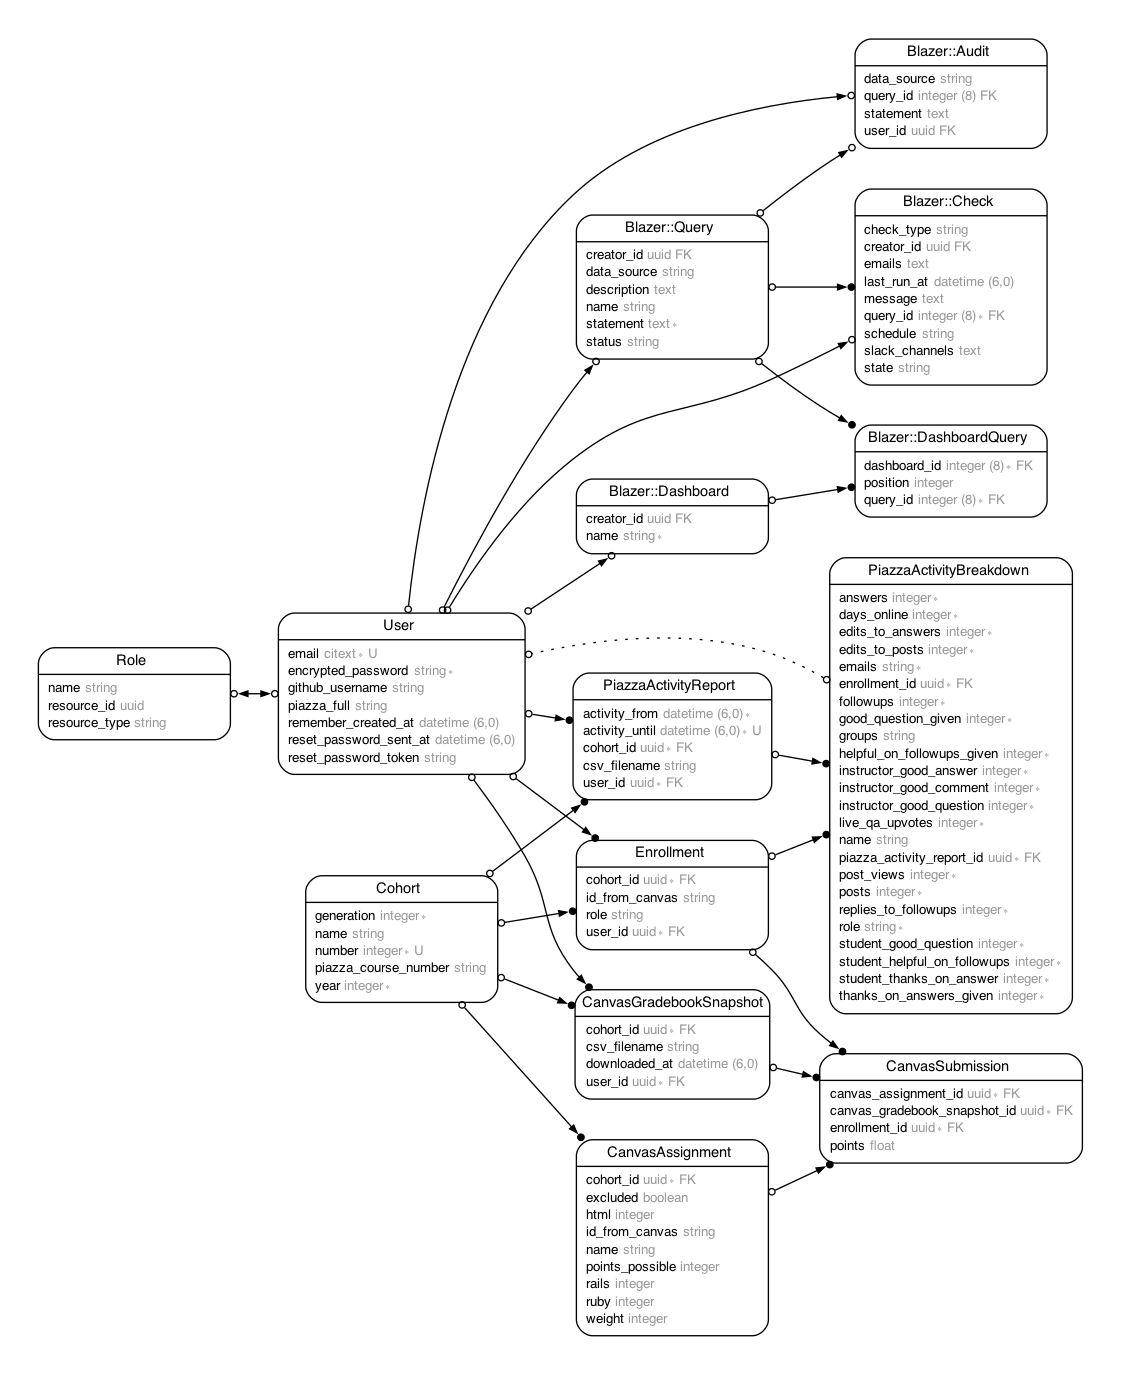
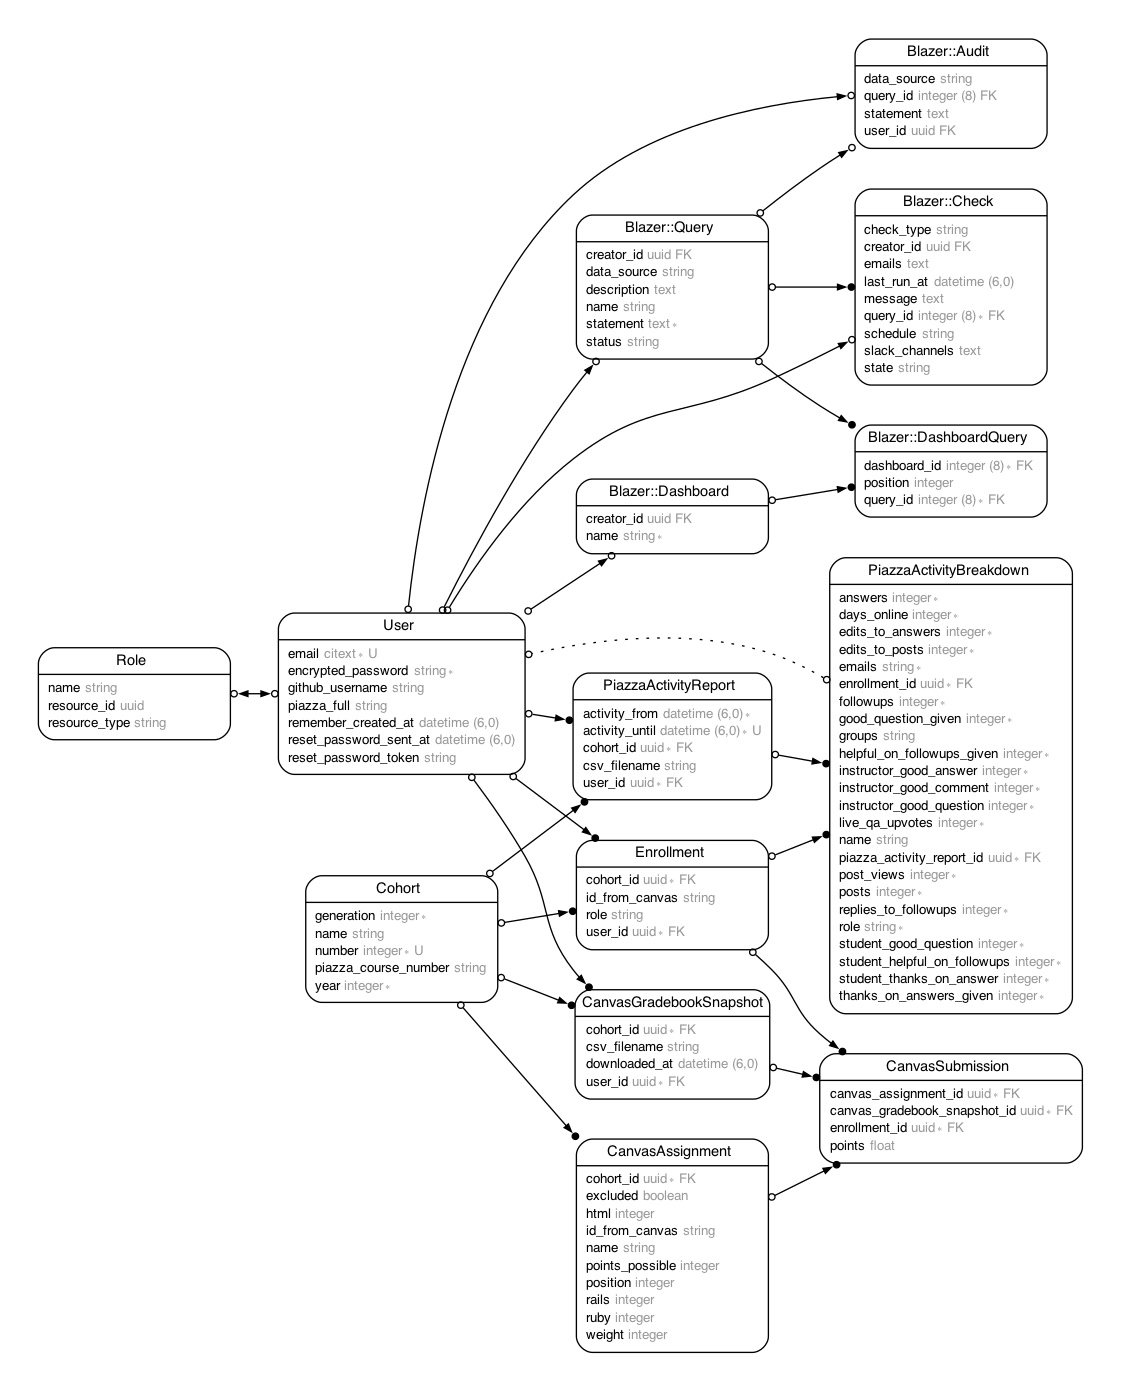
Add position to CanvasAssignment

diff --git a/app/models/canvas_gradebook_snapshot.rb b/app/models/canvas_gradebook_snapshot.rb
@@ -51,14 +51,14 @@ class CanvasGradebookSnapshot < ApplicationRecord
 
       csv.each_with_index do |row, i|
         if i.zero?
-          row.each do |assignment_name_raw, points_possible|
+          row.to_a.each_with_index do |(assignment_name_raw, points_possible), position|
             next unless points_possible.is_a?(Numeric)
 
             name_array = assignment_name_raw.to_s.split("_")
             id_from_canvas = name_array.pop.gsub(/\D/, '')
             name = name_array.join(' ')
-            # TODO: add position
-            CanvasAssignment.find_or_create_by(cohort:, points_possible:, id_from_canvas:, name:)
+
+            CanvasAssignment.find_or_create_by(cohort:, points_possible:, id_from_canvas:, name:, position:)
           end
         else
 
@@ -74,7 +74,6 @@ class CanvasGradebookSnapshot < ApplicationRecord
             the_enrollment.id_from_canvas = row.fetch(:id)
           end
 
-          # loop through all keys for canvas_assignment/points
           row.each do |assignment_name_raw, points|
             id_from_canvas = assignment_name_raw.to_s.split("_").pop.gsub(/\D/, '')
             canvas_assignment = CanvasAssignment.find_by_id_from_canvas id_from_canvas

diff --git a/db/schema.rb b/db/schema.rb
@@ -73,7 +73,7 @@ ActiveRecord::Schema[7.0].define(version: 2023_03_28_142701) do
   end
 
   create_table "canvas_assignments", id: :uuid, default: -> { "gen_random_uuid()" }, force: :cascade do |t|
-    t.boolean "excluded"
+    t.boolean "excluded", default: false
     t.integer "points_possible"
     t.string "name"
     t.string "id_from_canvas"
@@ -82,6 +82,7 @@ ActiveRecord::Schema[7.0].define(version: 2023_03_28_142701) do
     t.integer "ruby"
     t.integer "rails"
     t.uuid "cohort_id", null: false
+    t.integer "position"
     t.datetime "created_at", null: false
     t.datetime "updated_at", null: false
     t.index ["cohort_id"], name: "index_canvas_assignments_on_cohort_id"

diff --git a/app/models/canvas_assignment.rb b/app/models/canvas_assignment.rb
@@ -3,11 +3,12 @@
 # Table name: canvas_assignments
 #
 #  id              :uuid             not null, primary key
-#  excluded        :boolean
+#  excluded        :boolean          default(FALSE)
 #  html            :integer
 #  id_from_canvas  :string
 #  name            :string
 #  points_possible :integer
+#  position        :integer
 #  rails           :integer
 #  ruby            :integer
 #  weight          :integer
@@ -25,4 +26,6 @@
 #
 class CanvasAssignment < ApplicationRecord
   belongs_to :cohort
+
+  scope :default_order, -> { order(position: :asc) }
 end

diff --git a/db/migrate/20230328141222_create_canvas_assignments.rb b/db/migrate/20230328141222_create_canvas_assignments.rb
@@ -1,7 +1,7 @@
 class CreateCanvasAssignments < ActiveRecord::Migration[7.0]
   def change
     create_table :canvas_assignments, id: :uuid do |t|
-      t.boolean :excluded
+      t.boolean :excluded, default: false
       t.integer :points_possible
       t.string :name
       t.string :id_from_canvas
@@ -10,6 +10,7 @@ class CreateCanvasAssignments < ActiveRecord::Migration[7.0]
       t.integer :ruby
       t.integer :rails
       t.references :cohort, null: false, foreign_key: true, type: :uuid
+      t.integer :position
 
       t.timestamps
     end

diff --git a/spec/models/canvas_assignment_spec.rb b/spec/models/canvas_assignment_spec.rb
@@ -3,11 +3,12 @@
 # Table name: canvas_assignments
 #
 #  id              :uuid             not null, primary key
-#  excluded        :boolean
+#  excluded        :boolean          default(FALSE)
 #  html            :integer
 #  id_from_canvas  :string
 #  name            :string
 #  points_possible :integer
+#  position        :integer
 #  rails           :integer
 #  ruby            :integer
 #  weight          :integer
